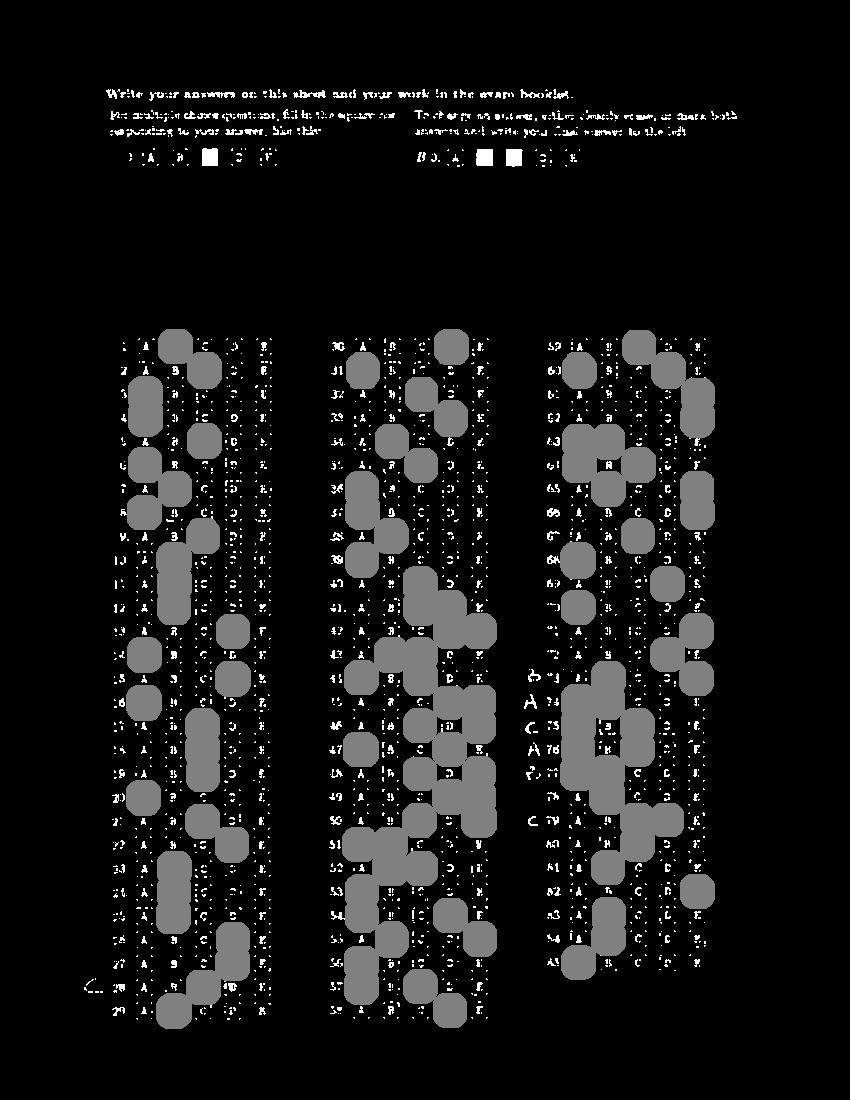
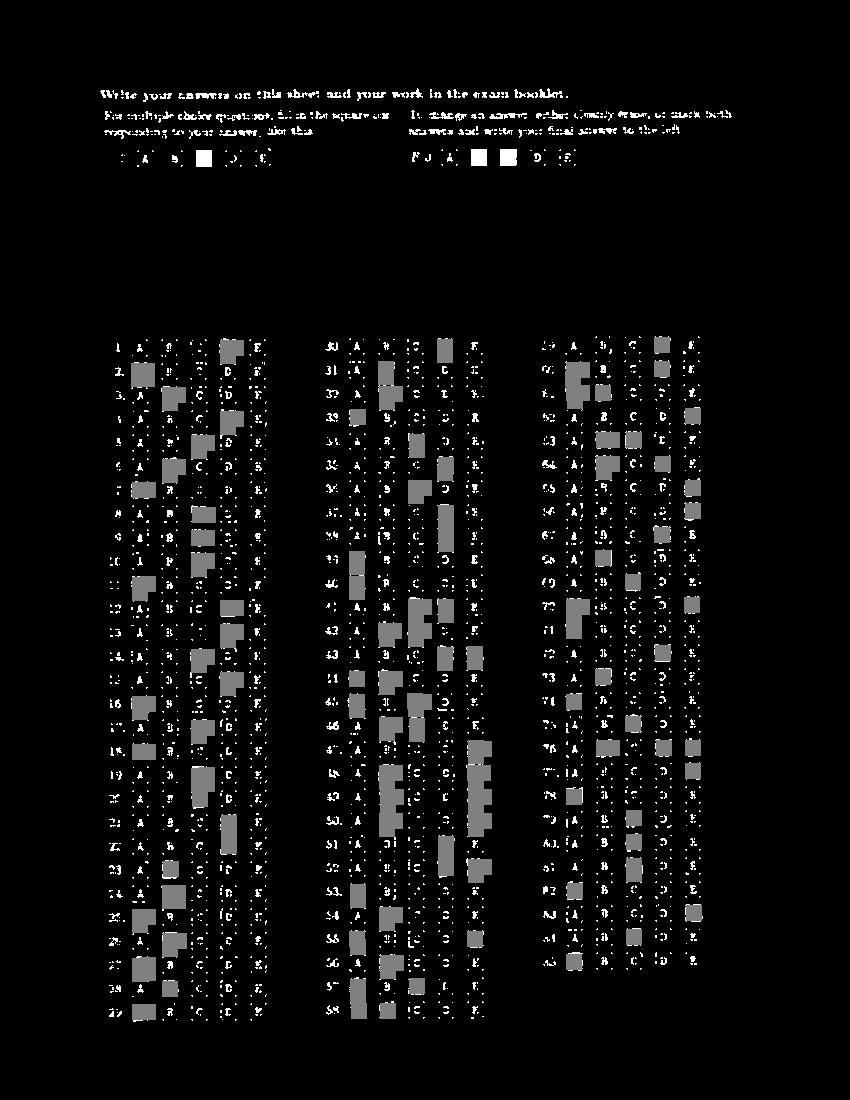
found them!

diff --git a/grade2.py b/grade2.py
@@ -30,7 +30,9 @@ from pprint import pprint
 import numpy as np
 from timeit import timeit
 import math
-import pandas as pd
+from operator import itemgetter
+import profile
+import cProfile
 
 
 def add_edges_dict(px,filter_matrix, width, height):
@@ -154,37 +156,61 @@ def grade(form, output_im, output_file):
     # using a threshold of at least 40% are filled in
     # and then by location, to determine the location of them, and if there is
     #something to left of the number
-    filled_in = int(16 * 16 * 0.40)
+    filled = int(16 * 16 * 0.30)
     something_there = 3
-    filled_in_dict = []
-    fin_df = pd.DataFrame(columns = ['box_total','x','y'])
-    print(fin_df)
-    something_there_dict = []
+    filled_x = []
+    filled_y = []
+    something_x = []
+    something_y = []
     
     range_16 = range(16)
-    for x in range(width-16):
-        for y in range(int(height/4), height-16):  # ignoring the first chunk of text
+    
+    def find_points():
+        for x in range(width-16):
+            for y in range(int(height/4), height-16):  # ignoring the first chunk of text
+                box_total = sum([1 for i in range(16) for j in range(16) if px3[x+i,y+j] == 255])
+                if box_total >= filled:
+                    # filled_y.append(([box_total,x,y]))   
+                    if len(filled_y) > 0:
+                        if y-8 < filled_y[-1][2] and x-8 < filled_y[-1][1] :
+                            if box_total > filled_y[-1][0]:
+                                filled_y[-1] = [box_total,x,y]
+                        else:
+                            filled_y.append(([box_total,x,y]))   
+                    else:
+                        filled_y.append(([box_total,x,y]))
+                elif box_total >= something_there:
+                    something_y.append(([box_total,x,y]))
+
+    find_points()                    
+
+    for y in range(int(height/4), height-16):  # ignoring the first chunk of text
+        for x in range(width-16):
             box_total = sum([1 for i in range(16) for j in range(16) if px3[x+i,y+j] == 255])
-            if box_total >= filled_in:
-                filled_in_dict.append(([box_total,x,y]))   
-                # if len(filled_in_dict) > 0:
-                #     if x-16 < filled_in_dict[-1][1] and y-16 < filled_in_dict[-1][2]:
-                #         if box_total > filled_in_dict[-1][0]:
-                #             filled_in_dict[-1] = [box_total,x,y]
-                #     else:
-                #         filled_in_dict.append(([box_total,x,y]))   
-                # else:
-                #     filled_in_dict.append(([box_total,x,y]))
-
+            if box_total >= filled:
+                if len(filled_x) > 0:
+                    if y-8 < filled_x[-1][2] and x-8 < filled_x[-1][1] :
+                        if box_total > filled_x[-1][0]:
+                            filled_x[-1] = [box_total,x,y]
+                    else:
+                        filled_x.append(([box_total,x,y]))   
+                else:
+                    filled_x.append(([box_total,x,y]))
             elif box_total >= something_there:
-                something_there_dict.append(([box_total,x,y]))
+                something_x.append(([box_total,x,y]))
+                
+    combined = []
+    for each in filled_x:
+        if each in filled_y:
+            combined.append(each)
 
-    print(len(filled_in_dict))
-    print(filled_in_dict[0:5])
-    print(len(something_there_dict))                
-    print(something_there_dict[0:5])                        
+    print(len(combined))
 
-    for each in filled_in_dict:
+    print(len(filled_x), len(filled_y))
+    # print(len(cross_filled))
+    print(len(something_x), len(something_y))                
+
+    for each in combined:
         for x in range(16):
             for y in range(16):
                 px3[each[1]+x,each[2]+y] = 128
@@ -203,5 +229,5 @@ def grade(form, output_im, output_file):
 form, output_im, output_file = sys.argv[1:]
 
 # Grade form
-# cProfile.run("grade(form, output_im, output_file)")
-grade(form, output_im, output_file)
+cProfile.run("grade(form, output_im, output_file)")
+# grade(form, output_im, output_file)
